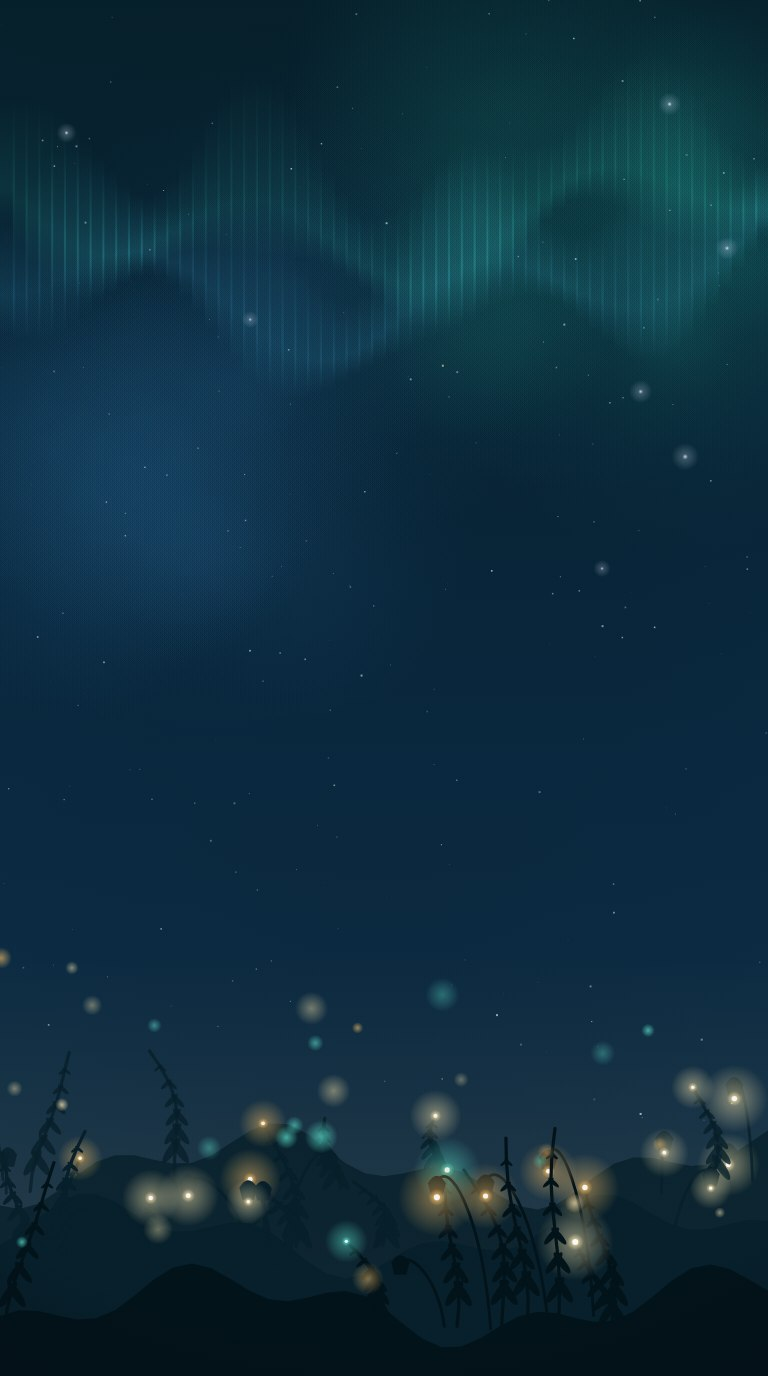
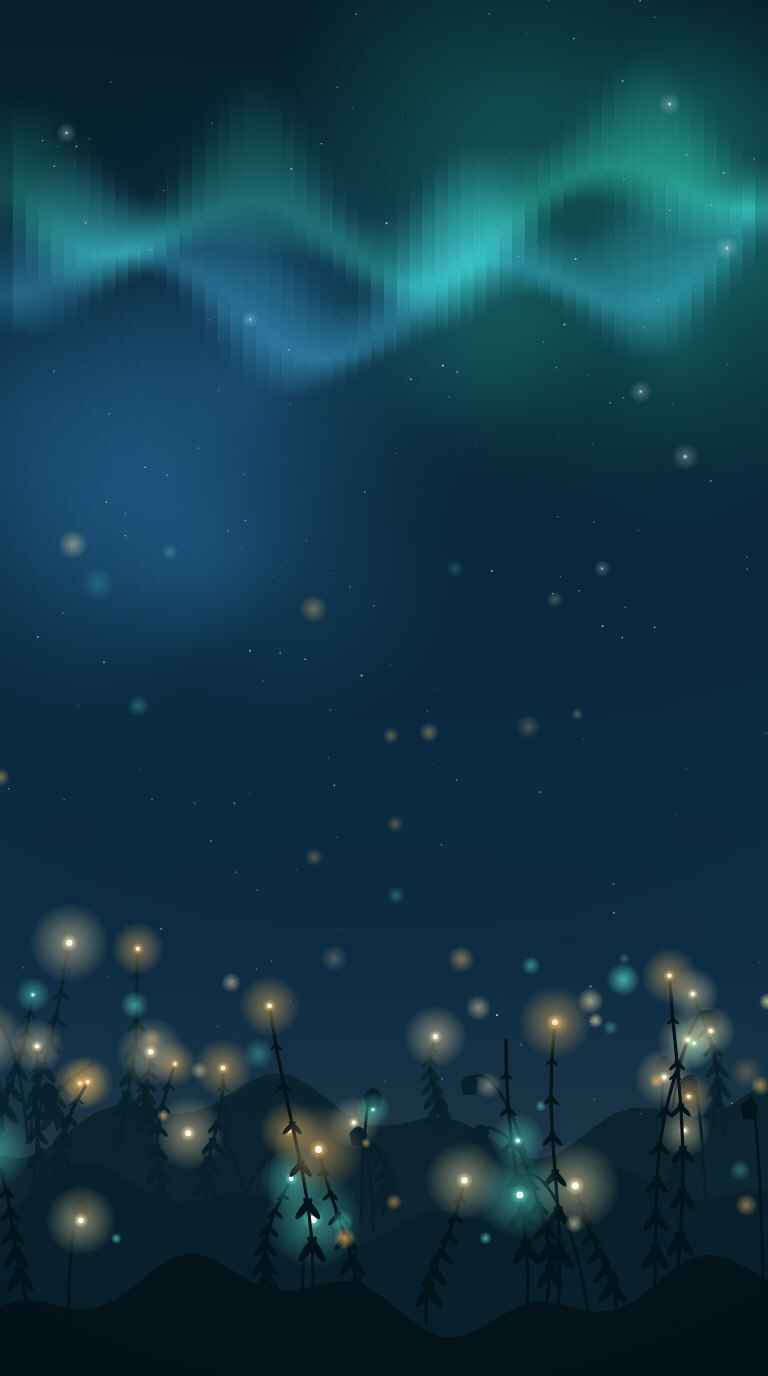
Make world art unmissable on every screen shape
The paintings were being neutered on wide/desktop viewports: cover-crop
centered the image (cutting off the glowing flora at the bottom) and a
heavy legibility veil flattened what remained, so all worlds read as the
same dark blue.

- Bottom-anchor the background crop so the flora line always shows
- Replace the flat veil with a light gradient weighted to the HUD band
- Baked paintings v3: taller/denser flora reaching into the play field,
  stronger nebula and aurora (banding smoothed), mid-sky floating
  spores, gentler vignette
- Per-world tint on orbit rings, dashes and gates (teal dawn, magenta
  dusk, emerald grove, ember lair) so the play field itself changes
  character between worlds

Claude-Session: https://claude.ai/code/session_0161WAppdbzyojisr8zQGeva

diff --git a/game/js/core.js b/game/js/core.js
@@ -15,6 +15,16 @@
     { main: '#a98bff', dark: '#4a3390', glyph: 'cross' },    // dusk wisp
   ];
 
+  // Each world tints the orbit rings and gates so the play field itself
+  // changes character between worlds, not just the backdrop.
+  WB.WORLD_TINT = {
+    title: '#8fb8ef',
+    dawn:  '#6fe0c8',
+    dusk:  '#e08cd8',
+    grove: '#7dffc9',
+    lair:  '#ff8f7a',
+  };
+
   const SHIFT_INFO = {
     reverse: { label: 'ORBIT REVERSED', color: '#8fd8ff' },
     surge:   { label: 'SURGE!',         color: '#ffc46b' },
@@ -855,19 +865,20 @@
     draw(ctx) {
       const t = this.time;
 
-      // Orbit paths with direction dashes
+      // Orbit paths with direction dashes, tinted by the current world
+      const tint = WB.WORLD_TINT[this.level.bg] || WB.WORLD_TINT.title;
       for (const ring of this.rings) {
         const crowd = ring.pieces.length / ring.capacity;
         const danger = crowd > 0.78 && !(this.boss && ring === this.boss.ring);
         ctx.save();
         ctx.strokeStyle = danger
           ? 'rgba(255,110,130,' + (0.16 + 0.12 * Math.sin(t * 6)) + ')'
-          : 'rgba(140,160,220,0.13)';
+          : WB.hexToRgba(tint, 0.14);
         ctx.lineWidth = this.pieceR * 1.7;
         ctx.beginPath();
         ctx.arc(this.cx, this.cy, ring.r, 0, WB.TAU);
         ctx.stroke();
-        ctx.strokeStyle = danger ? 'rgba(255,140,150,0.5)' : 'rgba(160,185,255,0.28)';
+        ctx.strokeStyle = danger ? 'rgba(255,140,150,0.5)' : WB.hexToRgba(tint, 0.34);
         ctx.lineWidth = 1.4;
         ctx.setLineDash([7, 13]);
         ctx.lineDashOffset = ring.dashOff;

diff --git a/game/js/ui.js b/game/js/ui.js
@@ -212,9 +212,15 @@
       const dw = img.naturalWidth * scale, dh = img.naturalHeight * scale;
       ctx.save();
       ctx.globalAlpha = alpha;
-      ctx.drawImage(img, (w - dw) / 2, (h - dh) / 2, dw, dh);
-      // Legibility veil: keeps gameplay glow the brightest thing on screen.
-      ctx.fillStyle = 'rgba(8,11,26,0.34)';
+      // Anchor to the bottom: the glowing flora is the soul of each painting,
+      // so wide/desktop crops must never cut it away.
+      ctx.drawImage(img, (w - dw) / 2, h - dh, dw, dh);
+      // Light legibility veil, weighted to the play area's center band.
+      const veil = ctx.createLinearGradient(0, 0, 0, h);
+      veil.addColorStop(0, 'rgba(8,11,26,0.16)');
+      veil.addColorStop(0.45, 'rgba(8,11,26,0.24)');
+      veil.addColorStop(1, 'rgba(8,11,26,0.08)');
+      ctx.fillStyle = veil;
       ctx.fillRect(0, 0, w, h);
       ctx.restore();
       return true;

diff --git a/game/js/util.js b/game/js/util.js
@@ -73,6 +73,11 @@ window.WB = window.WB || {};
     return px >= r.x && px <= r.x + r.w && py >= r.y && py <= r.y + r.h;
   }
 
+  function hexToRgba(hex, a) {
+    const n = parseInt(hex.slice(1), 16);
+    return 'rgba(' + ((n >> 16) & 255) + ',' + ((n >> 8) & 255) + ',' + (n & 255) + ',' + a + ')';
+  }
+
   function vibrate(ms) {
     if (!WB.save || !WB.save.data.settings.vibration) return;
     try {
@@ -98,5 +103,6 @@ window.WB = window.WB || {};
   WB.easeInOut = easeInOut;
   WB.roundRect = roundRect;
   WB.inRect = inRect;
+  WB.hexToRgba = hexToRgba;
   WB.vibrate = vibrate;
 })(window.WB);
